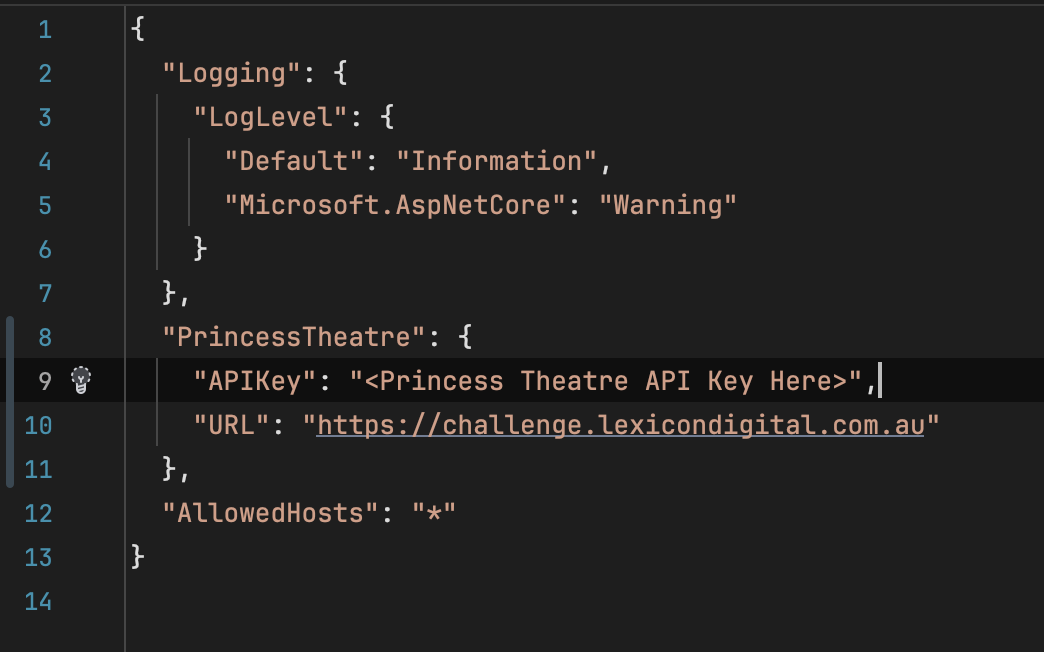
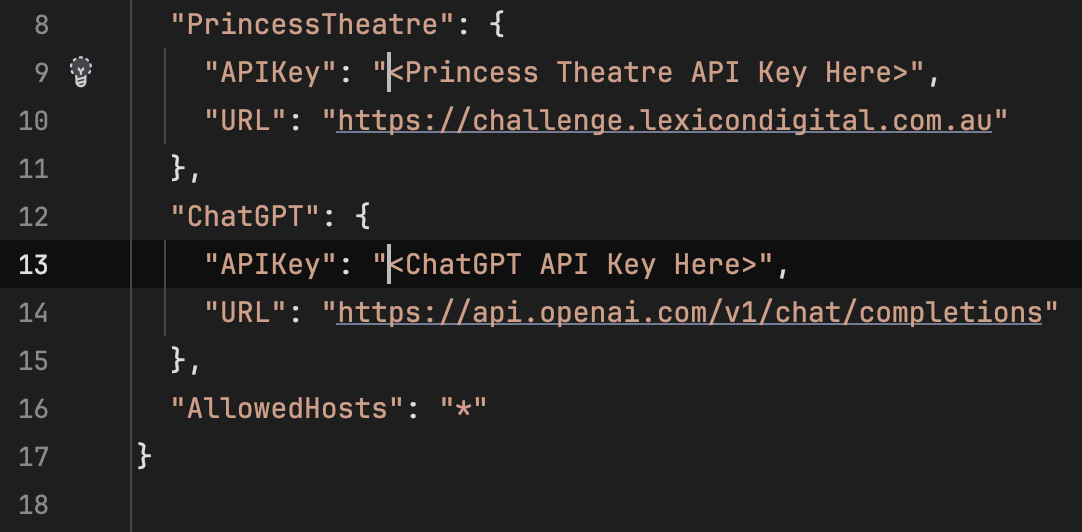
Update README.md
Update GPT-4 model

Update screenshot-app-settings.png

Update README.md

diff --git a/MovieHub.API/Models/ChatGPT/ChatGptQuery.cs b/MovieHub.API/Models/ChatGPT/ChatGptQuery.cs
@@ -20,7 +20,7 @@ public class ChatGptQuery
         });
     }
 
-    [JsonProperty("model")] public string Model { get; set; } = "gpt-4";
+    [JsonProperty("model")] public string Model { get; set; } = "gpt-4o";
 
     [JsonProperty("messages")] public List<Message> Messages { get; set; } = [];
 

diff --git a/README.md b/README.md
@@ -1,7 +1,7 @@
 # MovieHub API - Punit Dharmadhikari
 
 ## Overview
-MovieHub API provides detailed information on movies and the cinemas where they are shown. This API can retrieve movies by their attributes and provide detailed or general information based on user requests.
+MovieHub API provides detailed information on movies and the cinemas where they are shown. This API can retrieve movies by their attributes and provide detailed or general information based on user requests. Moreover, the API also includes a Chat bot endpoint that the users can ask questions to related to the movies.
 
 ## Requirements
 
@@ -28,9 +28,9 @@ dotnet restore
 ### Add configuration
 Add your Princess Theatre API key to the [MovieHub.API/appsettings.json](MovieHub.API/appsettings.json) configuration file in the `PrincessTheatre.APIKey` property, as shown below.
 
-![Add Princess Theatre API Key](screenshot-app-settings.png)
-
 Also add your [OpenAI API Key](https://platform.openai.com/settings/profile?tab=api-keys) to the same configuration file to enable the use of the `/Chatbot/query` endpoint.
+
+![Add Princess Theatre API Key](screenshot-app-settings.png)
 
 ### Configure the database
 Before running the application, copy the [moviehub-db-data-seed.sql](https://github.com/Lexicon-Digital/bench-dotnet-training/blob/master/moviehub-api-implementation-task/db/moviehub-db-data-seed.sql) file into the [./MovieHub.API/Scripts](./MovieHub.API/Scripts) folder.
@@ -81,6 +81,34 @@ Run the following command in the command line:
 
 ```shell
 dotnet test
+```
+
+### Chatbot Prompts
+
+The API features a `/Chatbot/query` endpoint that can be queried by asking direct questions related to the movies, cinemas and reviews.
+
+The question must be sent as a JSON object in a `POST` request, as below.
+
+```json
+{
+    "query": "What is the cheapest ticket price?"
+}
+```
+
+The API will utilise the [OpenAI API](https://platform.openai.com/docs/overview) to fetch an SQL query based on the database schema, which will then be run against the database. The questions need to be descriptive of the resource being queried. The generative AI has access to the database schema but no knowledge of the contents of the database itself, so it has no idea of how data is structured, e.g. Genres are stored in database as a single comma-separated string, but the AI model does not know that.
+
+**Note**: Only `SELECT` queries are allowed to be run against the database. The GPT is configured to reject any attempts at modifying any database resources, so any `ALTER`, `UPDATE` or `DELETE` queries will automatically be rejected. There are also failsafe mechanisms to ensure that nothing other than a `SELECT` query is run against the database.
+
+Some examples of questions that can be asked are below:
+
+```chatinput
+- Which movies were released prior to the year 2000?
+- Find all movies that are of the fantasy genre. Be mindful that genres are stored as a single string separated by commas.
+- What is the average ticket price of the movies?
+- What is the cheapest ticket price?
+- Fetch me the movie reviews for the movie with the highest reviews.
+- Which movie has the highest reviews?
+- Can you get a list of all cinemas where `Star Wars: The Phantom Menace (Episode I)` is showing?
 ```
 
 ### Some helpful commands
